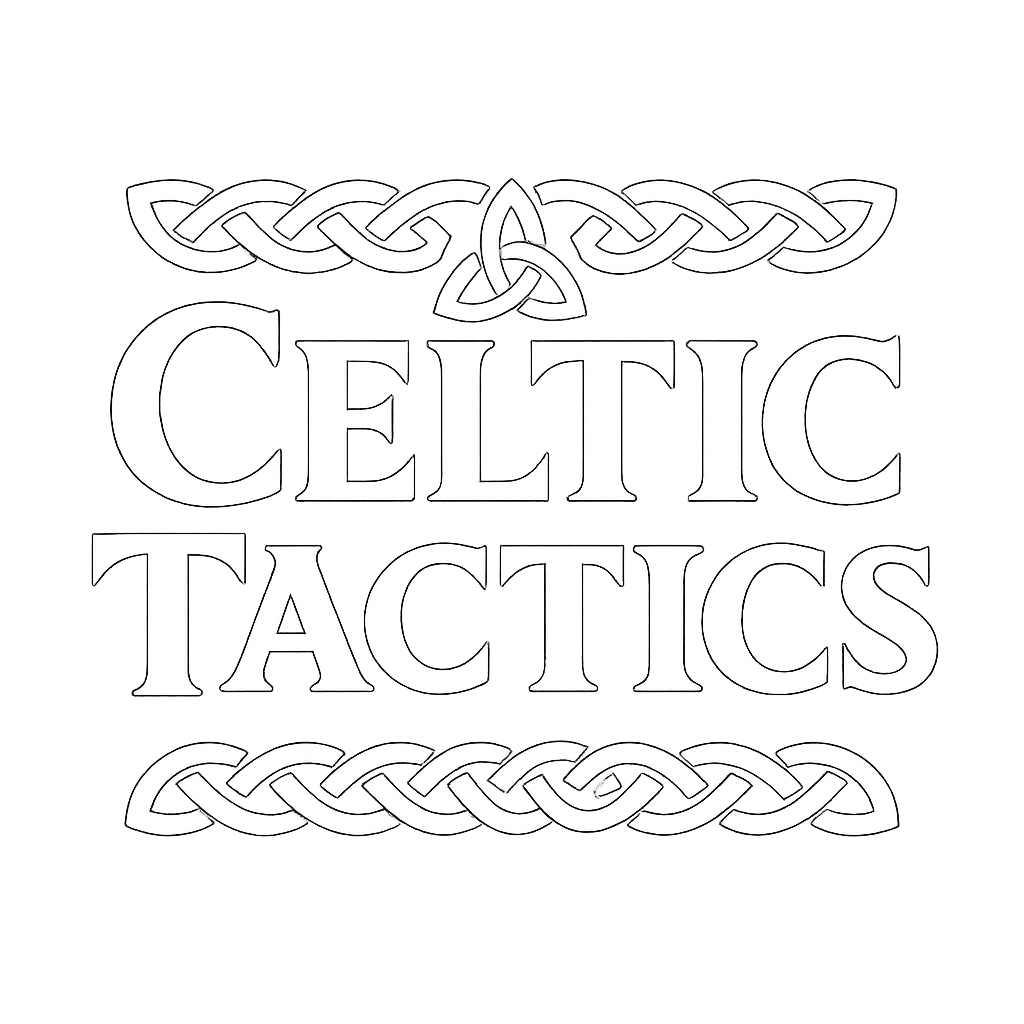
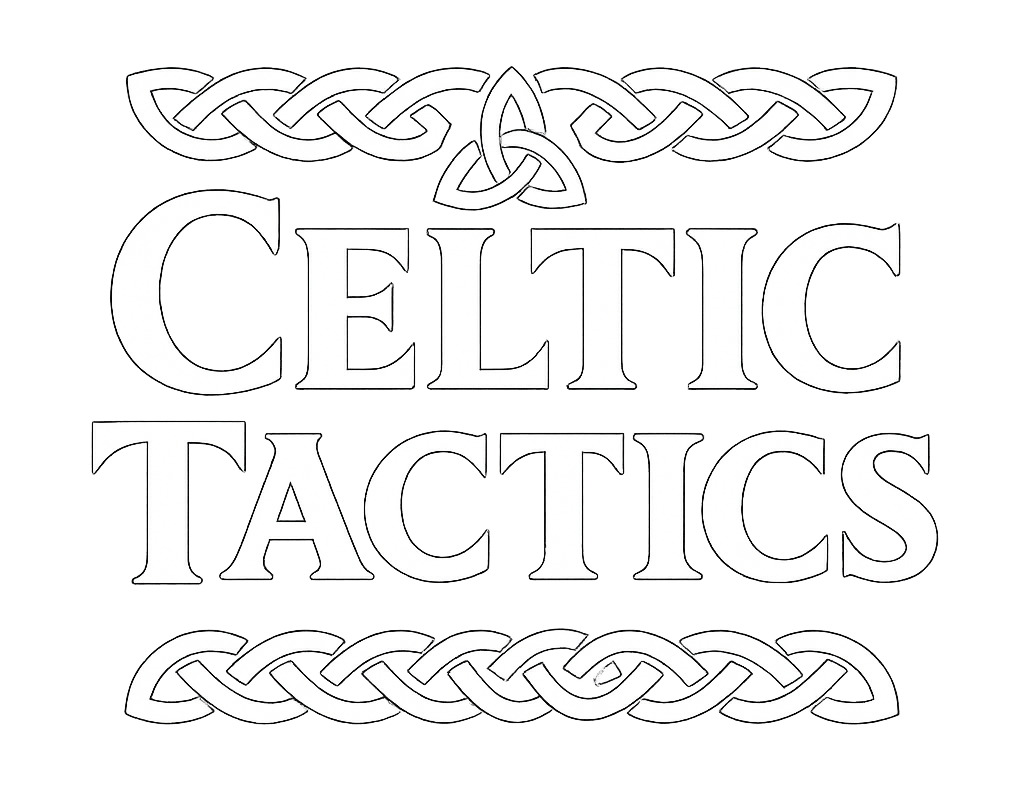
add app footer (and remove extra vertical whitespace for game title image)

diff --git a/frontend/src/App.css b/frontend/src/App.css
@@ -1,6 +1,7 @@
 :root {
     --standard-background: #2c2e31;
     --green-accent: rgb(43, 179, 130);
+    --darkened-text: rgb(214, 220, 237);
     --standard-shadow: 0 8px 16px 0 rgba(0, 0, 0, 0.2), 0 6px 20px 0 rgba(0, 0, 0, 0.19);
 }
 
@@ -263,4 +264,187 @@
     object-fit: contain;
     box-shadow: var(--standard-shadow);
     cursor: pointer;
+}
+
+.app-footer {
+    width: 100%;
+    padding: 84px 10% 96px 10%;
+    display: flex;
+    flex-direction: column;
+    align-items: start;
+    -webkit-box-sizing: border-box;
+    -moz-box-sizing: border-box;
+    box-sizing: border-box;
+}
+
+.app-footer-body {
+    width: 100%;
+    display: flex;
+    flex-direction: row;
+    align-items: center;
+    justify-content: center;
+    gap: 32px;
+    -webkit-box-sizing: border-box;
+    -moz-box-sizing: border-box;
+    box-sizing: border-box;
+}
+
+.app-footer-left-column {
+    display: flex;
+    flex-direction: column;
+    align-items: center;
+    width: 30%;
+    -webkit-box-sizing: border-box;
+    -moz-box-sizing: border-box;
+    box-sizing: border-box;
+}
+
+.app-footer-game-title-container {
+    width: 100%;
+    display: flex;
+    align-items: center;
+    justify-content: center;
+    -webkit-box-sizing: border-box;
+    -moz-box-sizing: border-box;
+    box-sizing: border-box;
+}
+
+.app-footer-game-title {
+    width: calc(100% * 2 / 3);
+    object-fit: contain;
+}
+
+.app-footer-social-media-link-row {
+    margin: 20px 0 0 0;
+    display: flex;
+    flex-direction: row;
+    align-items: flex-start;
+    justify-content: center;
+    gap: 8px;
+}
+
+.app-footer-social-media-link-container {
+    width: 42px;
+    height: 42px;
+    border-radius: 50%;
+    border: solid 2px white;
+    display: flex;
+    align-content: center;
+    justify-content: center;
+    cursor: pointer;
+    background-color: transparent;
+}
+
+.app-footer-social-media-link-container:hover {
+    background-color: var(--green-accent);
+}
+
+.app-footer-social-media-link {
+    height: 100%;
+    font-size: 24px;
+    display: flex;
+    flex-direction: column;
+    justify-content: center;
+}
+
+.app-footer-right-column {
+    width: 30%;
+    display: flex;
+    flex-direction: column;
+    align-items: center;
+    gap: 24px;
+    -webkit-box-sizing: border-box;
+    -moz-box-sizing: border-box;
+    box-sizing: border-box;
+}
+
+.app-footer-subscribe-text {
+    font-size: 20px;
+    margin-top: 32px;
+}
+
+.app-footer-subscribe-button {
+    width: 80%;
+    padding: 12px 20px;
+    margin: 0;
+    border: none;
+    border-radius: 12px;
+    cursor: pointer;
+    -webkit-box-sizing: border-box;
+    -moz-box-sizing: border-box;
+    box-sizing: border-box;
+    font-size: 16px;
+    font-weight: 700;
+    box-shadow: var(--standard-shadow);
+    color: white;
+    background-color: var(--green-accent);
+}
+
+.app-footer-subscribe-button:hover {
+    color: white;
+    background-color: rgb(11, 207, 148);
+    outline: solid 2px rgba(55, 236, 146, 0.2);
+    box-shadow: 0 0 4px 4px rgba(55, 236, 146, 0.2);
+}
+
+.app-footer-language-container {
+    width: min-content;
+    margin: 2px;
+    padding: 12px 18px;
+    border: solid 2px var(--darkened-text);
+    border-radius: 5px;
+}
+
+.app-footer-language-container:hover {
+    margin: 0;
+    padding: 14px 20px;
+}
+
+.app-footer-language-select {
+    margin: 8px 0 0 0;
+    padding: 0;
+    background-color: transparent;
+    color: white;
+    border: none;
+    font-size: 16px;
+    font-weight: 500;
+}
+
+.app-footer-language-select option {
+    color: black;
+}
+
+.app-footer-underlined-text-button-row {
+    width: 100%;
+    display: flex;
+    flex-direction: row;
+    align-items: center;
+    justify-content: center;
+    gap: 24px;
+    margin: 48px 0 20px 0;
+}
+
+.app-footer-underlined-text-button {
+    color: white;
+    text-align: center;
+    text-decoration: underline !important;
+    font-size: 16px;
+    font-weight: 700;
+    border: none;
+    background-color: transparent;
+    cursor: pointer;
+}
+
+.app-footer-legal-disclaimer {
+    width: 100%;
+    margin-top: 12px;
+    text-align: center;
+    font-size: 16px;
+}
+
+.app-footer-copyright {
+    width: 100%;
+    margin-top: 12px;
+    text-align: center;
+    font-size: 16px;
 }

diff --git a/frontend/src/components/AppFooter.js b/frontend/src/components/AppFooter.js
@@ -1,0 +1,74 @@
+import React from 'react';
+import { FaDiscord, FaInstagram, FaFacebookSquare, FaYoutube } from "react-icons/fa";
+import { FaXTwitter } from "react-icons/fa6";
+
+function AppFooter() {
+    return (
+        <footer className="app-footer">
+            <div className="app-footer-body">
+                <div className="app-footer-left-column">
+                    <div className="app-footer-game-title-container">
+                        <img className="app-footer-game-title" src={require("../images/game-title.png")} alt="game title" />
+                    </div>
+                    <div className="app-footer-social-media-link-row">
+                        <div className="app-footer-social-media-link-container">
+                            <FaXTwitter className="app-footer-social-media-link"/>
+                        </div>
+                        <div className="app-footer-social-media-link-container">
+                            <FaDiscord className="app-footer-social-media-link"/>
+                        </div>
+                        <div className="app-footer-social-media-link-container">
+                            <FaInstagram className="app-footer-social-media-link"/>
+                        </div>
+                        <div className="app-footer-social-media-link-container">
+                            <FaFacebookSquare className="app-footer-social-media-link"/>
+                        </div>
+                        <div className="app-footer-social-media-link-container">
+                            <FaYoutube className="app-footer-social-media-link"/>
+                        </div>
+                    </div>
+                </div>
+                <div className="app-footer-right-column">
+                    <div className="app-footer-language-container">
+                        <label htmlFor="languages">Language:</label>
+                        <select className="app-footer-language-select" name="languages" id="languages">
+                            <option value="english">English</option>
+                            <option value="german">Deutsch</option>
+                            <option value="spanish (spain)">Español &#40;España&#41;</option>
+                            <option value="spanish (latin america)">Español &#40;Latinoamérica&#41;</option>
+                            <option value="french">Français</option>
+                            <option value="italian">Italiano</option>
+                            <option value="portuguese (brazil)">Português &#40;Brasil&#41;</option>
+                            <option value="japanese">日本語</option>
+                            <option value="korean">한국인</option>
+                            <option value="chinese (traditional)">繁體中文</option>
+                        </select>
+                    </div>
+                    <div className="app-footer-subscribe-text">
+                        Sign up for our newsletter!
+                    </div>
+                    <button className="app-footer-subscribe-button">SUBSCRIBE</button>
+                </div>
+            </div>
+            <div className="app-footer-underlined-text-button-row">
+                <div className="app-footer-underlined-text-button">
+                    PRIVACY NOTICE
+                </div>
+                <div className="app-footer-underlined-text-button">
+                    TERMS OF USE
+                </div>
+                <div className="app-footer-underlined-text-button">
+                    CUSTOMER SERVICE
+                </div>
+                <div className="app-footer-underlined-text-button">
+                    FORUMS
+                </div>
+            </div>
+            <div className="app-footer-legal-disclaimer">Products, contents, features, etc. subject to changes.</div>
+            <div className="app-footer-legal-disclaimer">Screenshots and footage are from a product in development and not final.</div>
+            <div className="app-footer-copyright">&copy; {new Date().getFullYear()} Michael Dillinger. All rights reserved.</div>
+        </footer>
+    );
+}
+
+export default AppFooter;

diff --git a/frontend/src/App.js b/frontend/src/App.js
@@ -3,6 +3,7 @@ import React from 'react';
 import {BrowserRouter as Router, Routes, Route} from 'react-router-dom';
 import NavigationBar from './components/NavigationBar';
 import WelcomePage from './pages/WelcomePage';
+import AppFooter from './components/AppFooter';
 
 function App() {
     return (
@@ -15,6 +16,7 @@ function App() {
                     </Routes>
                 </Router>
             </header>
+            <AppFooter />
         </div>
     );
 }
